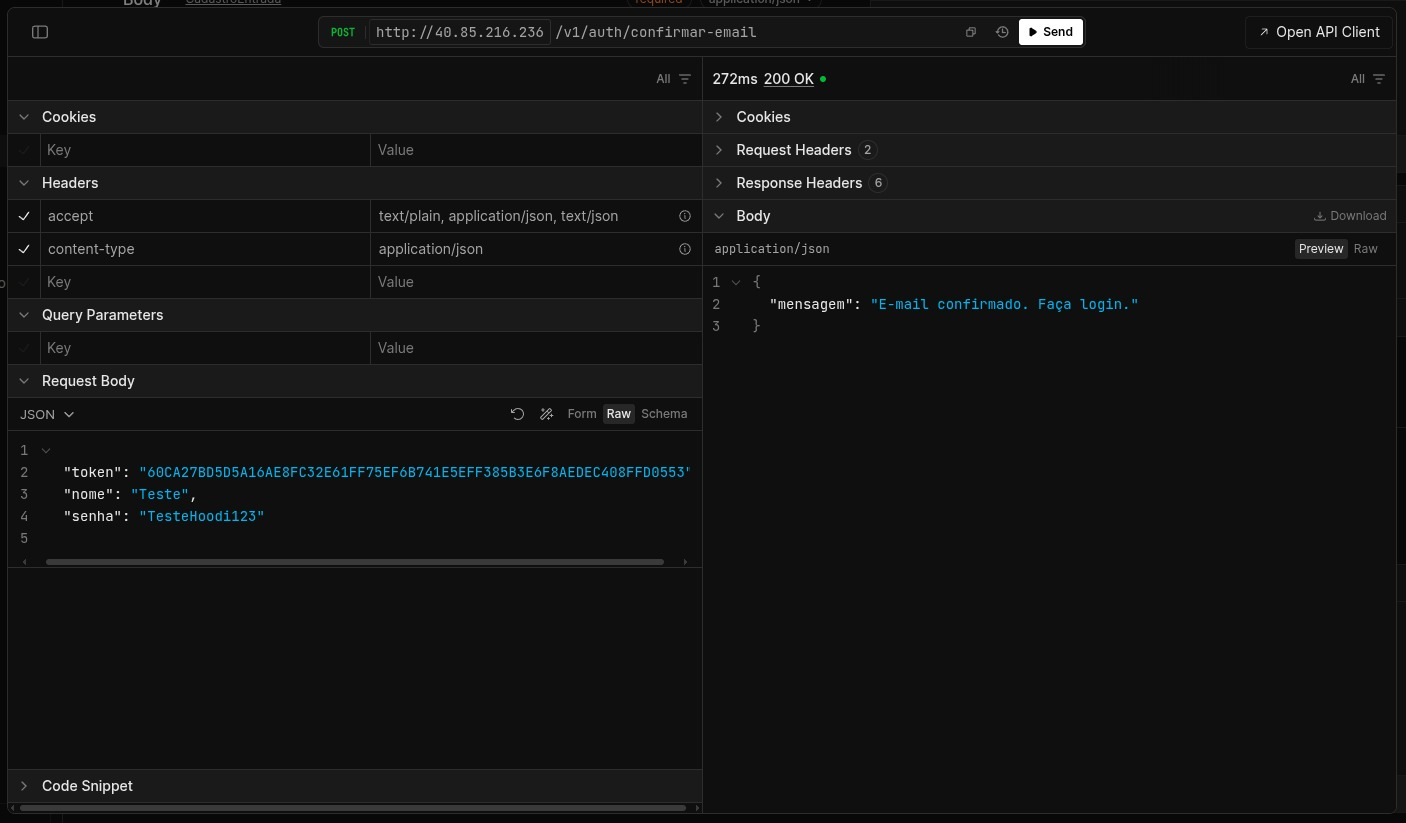
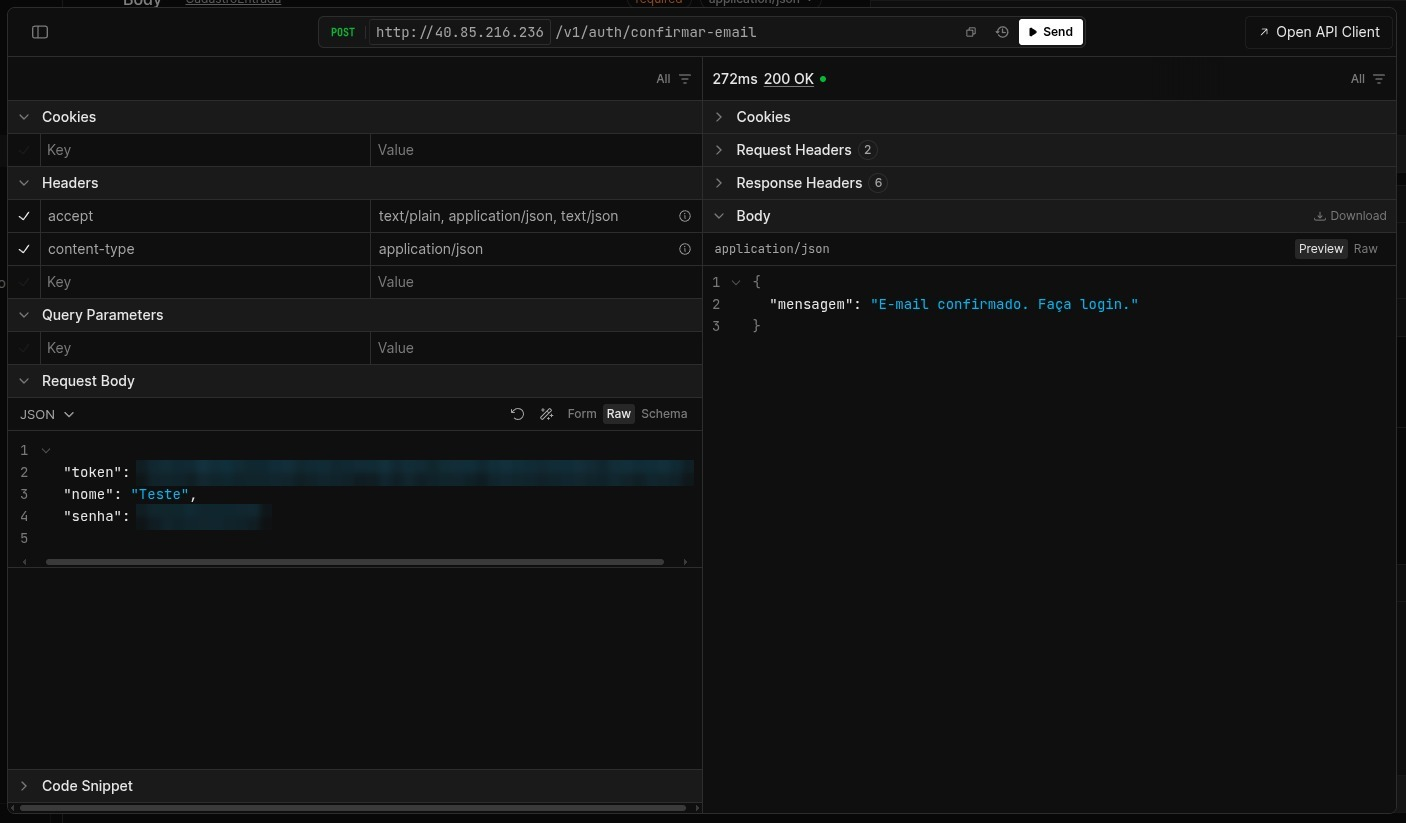
fix: redact credentials in evidence, main branch by default, safe build swap

Changed region(s): [[0.0917, 0.5468, 0.4893, 0.6683]]

diff --git a/infra/README.md b/infra/README.md
@@ -127,7 +127,7 @@ Documentação interativa: `http://IP_DA_VM/scalar`
 
 ## O que cada script faz
 
-Todos os scripts exigem `sudo`, usam `set -euo pipefail` e executam cada etapa pela função `step` da `lib/log.sh`. Se uma etapa falhar, o script para e registra `FAIL`. Todos são **idempotentes**: rodar de novo produz o mesmo resultado, sem duplicar configuração.
+Todos os scripts exigem `sudo`, usam `set -euo pipefail` e executam cada etapa pela função `stage` da `lib/log.sh`. Se uma etapa falhar, inclusive no meio de uma função, o script para e registra `FAIL`. Todos são **idempotentes**: rodar de novo produz o mesmo resultado, sem duplicar configuração.
 
 ### `lib/log.sh`
 | Função | O que faz |
@@ -135,7 +135,7 @@ Todos os scripts exigem `sudo`, usam `set -euo pipefail` e executam cada etapa p
 | `init_log` | Envia toda a saída do script para a tela e para `/var/log/hoodi/<script>.log` (via `tee`) |
 | `log` | Imprime uma mensagem com data e hora |
 | `audit` | Grava uma linha em `/var/log/hoodi/audit.log`: data, script, status e mensagem |
-| `step` | Executa uma etapa, registra `OK` ou `FAIL` e interrompe o script em caso de falha |
+| `stage` | Executa uma etapa num subshell com `set -e` próprio, registra `OK` ou `FAIL` e interrompe o script em caso de falha |
 
 ### `01_infra.sh` — infraestrutura
 | Etapa | Detalhe |
@@ -153,10 +153,10 @@ O **IP** é atribuído pelo Azure (IP privado na VNet e IP público Standard). P
 |---|---|
 | Dependências | `nginx`, `sqlite3`, `libicu74`, `openssl` |
 | .NET 10 | Instalador oficial (`dotnet-install.sh`) em `/usr/share/dotnet`, com link em `/usr/bin/dotnet` |
-| Mailpit | Instalado em `/usr/local/bin/mailpit` |
+| Mailpit | Versão fixa (`MAILPIT_VERSION`, release oficial do GitHub) em `/usr/local/bin/mailpit` |
 | Usuário de serviço | `hoodi`, de sistema, sem shell e sem home |
-| Código | `git clone` da branch `develop` em `/opt/hoodi-src` (ou `fetch` + `reset` se já existir) |
-| Build | `dotnet publish` em `/opt/hoodi`, com a API parada durante a troca |
+| Código | `git clone` da branch `main` em `/opt/hoodi-src` (ou `fetch` + `reset` se já existir). Outra branch: variável `HOODI_BRANCH` |
+| Build | `dotnet publish` numa pasta temporária (`/opt/hoodi.new`) com a API ainda no ar; só se o build der certo a API é parada e a pasta trocada. Se o build falhar, a versão anterior continua rodando |
 | Segredos | `/etc/hoodi/hoodi.env` (`root:root`, `600`) com chave JWT aleatória de 32 bytes, **gerada uma única vez** |
 | Serviços | `hoodi.service` e `hoodi-mailpit.service` da pasta `deploy/`, com override `Restart=always` |
 | nginx | `nginx.http-demo.conf.example` como site ativo; remove o site padrão; valida com `nginx -t` |
@@ -230,8 +230,11 @@ O teste usa `kill -9` e não `systemctl stop` de propósito: com o `stop`, o sys
 ## Operação do dia a dia
 
 ```bash
-# Atualizar a API com o código mais recente da develop (preserva banco e chaves)
+# Atualizar a API com o código mais recente da main (preserva banco e chaves)
 sudo bash ~/scripts/02_infra.sh
+
+# Publicar outra branch (ex.: para testar a develop)
+sudo HOODI_BRANCH=develop bash ~/scripts/02_infra.sh
 
 # Estado dos serviços
 systemctl status hoodi hoodi-mailpit hoodi-monitor nginx
@@ -254,7 +257,7 @@ az vm start      -g rg-hoodi -n vm-hoodi
 
 ## Evidências
 
-Todas as capturas foram feitas numa VM recém-criada (`vm-hoodi-clean`), provisionada só com `00_bootstrap.sh`.
+Todas as capturas foram feitas numa VM recém-criada (`vm-hoodi-clean`), provisionada só com `00_bootstrap.sh` a partir da branch `develop` da época; por isso o Scalar ainda não mostra os endpoints de risco.
 
 ### Provisionamento do zero
 
@@ -301,7 +304,7 @@ Todas as capturas foram feitas numa VM recém-criada (`vm-hoodi-clean`), provisi
 
 ### Fluxo completo da API
 
-Teste de ponta a ponta com dados fictícios: cadastro → e-mail → confirmação → login.
+Teste de ponta a ponta com dados fictícios: cadastro → e-mail → confirmação → login. Senha e tokens estão borrados nas capturas; a conta de teste existia só na VM limpa, que já foi apagada.
 
 **12. `POST /v1/auth/registrar` → 202**
 ![Registrar](evidence/12-api-register.jpg)
